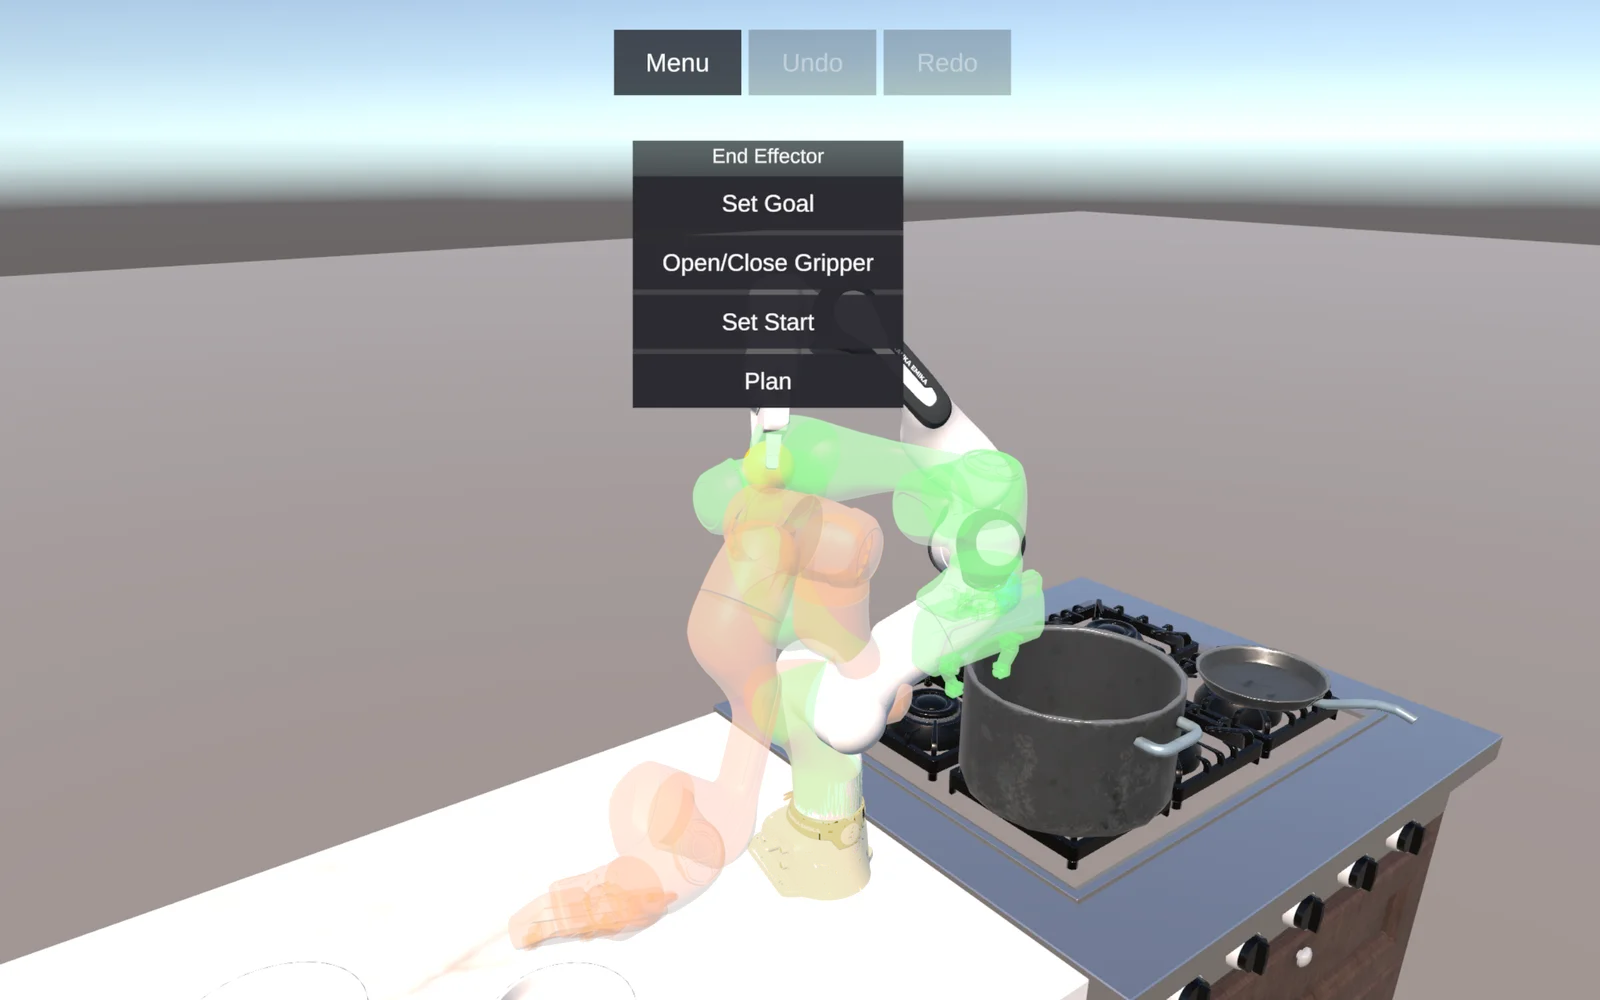
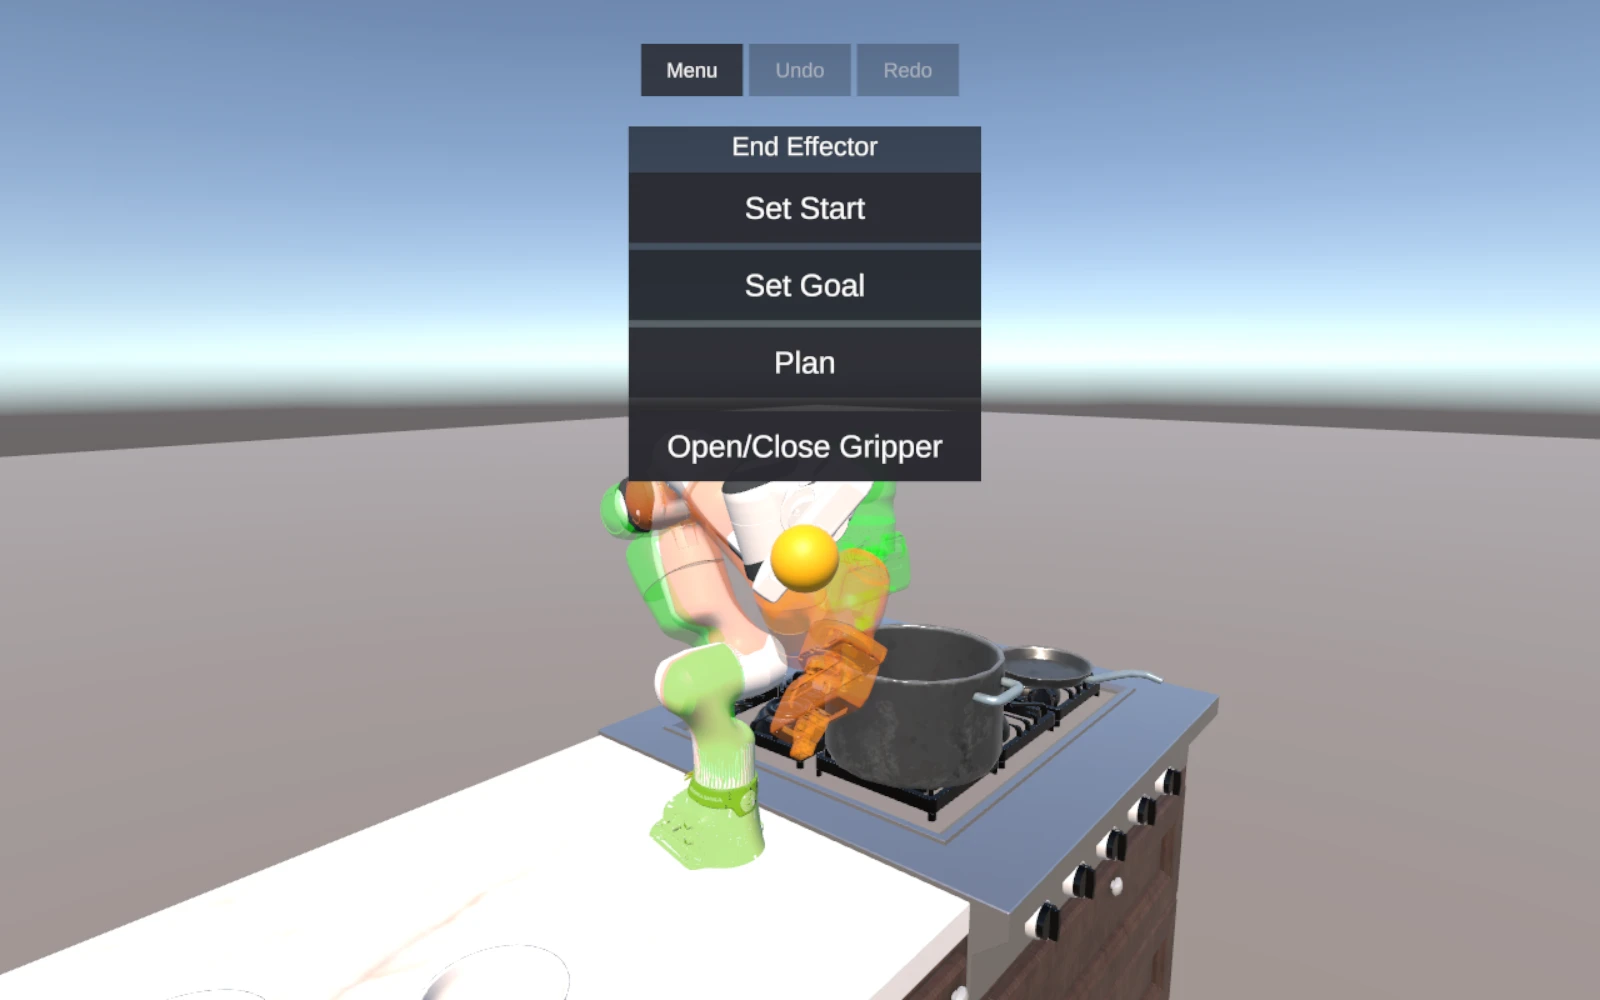
Order the end-effector menu by planning step

diff --git a/Packages/com.erupt.core/Runtime/Ui/ContextualMenuView.cs b/Packages/com.erupt.core/Runtime/Ui/ContextualMenuView.cs
@@ -116,9 +116,6 @@ namespace Erupt.Ui
             Canvas.gameObject.SetActive(visible);
             if (!visible) return;
 
-            int count = Model.Verbs.Count;
-            UiBuilder.ResizeWorldCanvas(Canvas, new Vector2(Width, HeaderHeight + count * (buttonSize.y + Spacing)));
-
             var layout = UiBuilder.CreateColumn("Verbs", Canvas.transform, Spacing);
             column = layout.gameObject;
             UiBuilder.Stretch(layout.GetComponent<RectTransform>());
@@ -129,15 +126,25 @@ namespace Erupt.Ui
             var header = UiBuilder.CreateLabel("Header", column.transform, Model.Target.DisplayName, 24f);
             header.gameObject.AddComponent<LayoutElement>().preferredHeight = HeaderHeight;
 
+            float height = HeaderHeight;
             foreach (var verb in Model.Verbs)
             {
+                if (Model.Kind == SelectionKind.EndEffector && verb.Id == "gripper" && buttons.Count > 0)
+                {
+                    // An empty layout child adds one extra interval before the gripper.
+                    var gap = new GameObject("Gripper gap", typeof(RectTransform));
+                    gap.transform.SetParent(column.transform, false);
+                    height += Spacing;
+                }
                 Verb captured = verb;
                 Button button = UiBuilder.CreateButton(verb.Id, column.transform, verb.Label, buttonSize,
                     () => Invoke(captured));
 
                 UiBuilder.SetInteractable(button, Model.CanInvoke(verb));
                 buttons.Add(button);
+                height += buttonSize.y + Spacing;
             }
+            UiBuilder.ResizeWorldCanvas(Canvas, new Vector2(Width, height));
         }
 
         /// <summary>Use this router for the menu's refusals.</summary>

diff --git a/Assets/Erupt.App/Tests/Desktop/DesktopFlowTests.cs b/Assets/Erupt.App/Tests/Desktop/DesktopFlowTests.cs
@@ -258,8 +258,13 @@ namespace Erupt.App.Desktop.Tests
             yield return Click(OnScreen(HandlePosition, "The end-effector handle"));
             Assert.AreEqual(SelectionKind.EndEffector, selection.CurrentKind, "A left click on the handle selects the end effector.");
             Assert.IsTrue(ui.TierTwo.Canvas.gameObject.activeInHierarchy, "Its tier 2 menu appears.");
-            CollectionAssert.AreEqual(new[] { "set-goal", "gripper", "set-start", "plan" }, ui.TierTwo.Model.Verbs.Select(v => v.Id).ToArray(),
+            CollectionAssert.AreEqual(new[] { "set-start", "set-goal", "plan", "gripper" }, ui.TierTwo.Model.Verbs.Select(v => v.Id).ToArray(),
                 "The menu holds what can be pressed, and nothing else.");
+            float ButtonY(string id) => ui.TierTwo.ButtonFor(id).transform.localPosition.y;
+            float planningStep = ButtonY("set-start") - ButtonY("set-goal");
+            Assert.Greater(planningStep, 0f);
+            Assert.AreEqual(planningStep, ButtonY("set-goal") - ButtonY("plan"), 0.01f);
+            Assert.Greater(ButtonY("plan") - ButtonY("gripper"), planningStep, "A gap separates the gripper from the planning steps.");
 
             // 2. Set Start.
             yield return ClickVerb("set-start");

diff --git a/Packages/com.erupt.core/Runtime/Ui/VerbRegistry.cs b/Packages/com.erupt.core/Runtime/Ui/VerbRegistry.cs
@@ -103,10 +103,26 @@ namespace Erupt.Ui
 
             var verb = new Verb(verbId, label, VerbAvailability.Available, VerbOrigin.Plugin, pluginId);
             if (!rows.TryGetValue(kind, out var list)) rows[kind] = list = new List<Verb>();
-            list.Add(verb);
+            int index = list.Count;
+            if (kind == SelectionKind.EndEffector)
+            {
+                int order = EndEffectorOrder(verbId);
+                index = list.FindIndex(existing => EndEffectorOrder(existing.Id) > order);
+                if (index < 0) index = list.Count;
+            }
+            list.Insert(index, verb);
             Changed?.Invoke();
             return verb;
         }
+
+        // Planning steps lead the row, whichever plugin registers first. Other verbs keep their order.
+        private static int EndEffectorOrder(string id) => id switch
+        {
+            "set-start" => 0,
+            "set-goal" => 1,
+            "plan" => 2,
+            _ => 3
+        };
 
         /// <summary>Remove every verb a plugin contributed (on unregister).</summary>
         public int RemoveAllFrom(string pluginId)

diff --git a/Packages/com.erupt.plugin.moveit/Tests/MoveItFirstRunTests.cs b/Packages/com.erupt.plugin.moveit/Tests/MoveItFirstRunTests.cs
@@ -547,12 +547,12 @@ namespace Erupt.Plugins.MoveIt.Tests
         }
 
         [UnityTest]
-        public IEnumerator TheEndEffectorMenu_ReadsSetGoalGripperSetStartPlan()
+        public IEnumerator TheEndEffectorMenu_ListsPlanningStepsBeforeGripperActions()
         {
             yield return Build();
-            CollectionAssert.AreEqual(new[] { "set-goal", "gripper", "preview-grasp", "set-start", "plan" },
+            CollectionAssert.AreEqual(new[] { "set-start", "set-goal", "plan", "gripper", "preview-grasp" },
                 ui.Verbs.For(SelectionKind.EndEffector).Select(v => v.Id).ToArray(),
-                "Plan is the last button (Preview Grasp is pending and left out of the menu).");
+                "The planning steps precede the gripper actions.");
         }
     }
 }

diff --git a/Packages/com.erupt.plugin.moveit/Runtime/MoveItPlugin.cs b/Packages/com.erupt.plugin.moveit/Runtime/MoveItPlugin.cs
@@ -151,9 +151,7 @@ namespace Erupt.Plugins.MoveIt
                 }
             }
 
-            // The user poses the robot, sets the start, poses it again, sets the goal. set-goal
-            // alone cannot express that, so start gets its own verb (plugin origin). It is
-            // added before the base class adds "plan", so Plan is the last button of the menu.
+            // MoveIt captures a start pose as well as the planning family's goal pose.
             if (context.Ui != null && !context.Ui.Verbs.Contains(SelectionKind.EndEffector, "set-start"))
                 context.Ui.RegisterVerb(SelectionKind.EndEffector, "set-start", "Set Start", target => SetStartFromRobot(RobotOf(target)), Id);
 

diff --git a/Assets/Erupt.App/Tests/Modules/ModulePresenceTests.cs b/Assets/Erupt.App/Tests/Modules/ModulePresenceTests.cs
@@ -37,7 +37,7 @@ namespace Erupt.App.Modules.Tests
 
         // What each module puts on the menus and on the strip.
         private static readonly string[] CoreEndEffector = { "Open/Close Gripper" };
-        private static readonly string[] PlanningEndEffector = { "Set Goal", "Open/Close Gripper", "Set Start", "Plan" };
+        private static readonly string[] PlanningEndEffector = { "Set Start", "Set Goal", "Plan", "Open/Close Gripper" };
         private static readonly string[] PlanningPlan = { "Execute", "Preview" };
 
         private FakeRosBus bus;

diff --git a/website/guides/quick-start.md b/website/guides/quick-start.md
@@ -59,7 +59,7 @@ beyond the one Unity itself asks for.
     <input id="motion-plan" aria-controls="plan-frame" type="radio" name="motion-step">
     <label for="motion-plan">Preview the plan</label>
     <figure id="select-frame">
-      <a href="../images/kitchen-fr3-selection.webp"><img width="1600" height="1000" src="../images/kitchen-fr3-selection.webp" alt="The selected yellow handle and, above it, the End Effector menu with Set Goal, Open/Close Gripper, Set Start and Plan." loading="lazy"></a>
+      <a href="../images/kitchen-fr3-selection.webp"><img width="1600" height="1000" src="../images/kitchen-fr3-selection.webp" alt="The selected yellow handle and, above it, the End Effector menu with Set Start, Set Goal and Plan above Open/Close Gripper." loading="lazy"></a>
       <figcaption>Left-click the blue sphere at the end effector. When the handle turns yellow, click <strong>Set Start</strong> in the menu to save the arm’s current pose.</figcaption>
     </figure>
     <figure id="goal-frame">

diff --git a/Packages/com.erupt.plugin.moveit/README.md b/Packages/com.erupt.plugin.moveit/README.md
@@ -37,7 +37,8 @@ Contract and lifecycle: `com.erupt.core/Documentation~/plugin-authoring.md`. Gen
    With one robot in the root namespace this is the single `/collision_object` /
    `/collision_objects_ros` pair it always was.
 4. **Use.** Select the end effector (its handle) → `Set Start` (tier 2) → drag the end
-   effector to where the motion should end → `Set Goal` → `Plan`. The plan appears as a
+   effector to where the motion should end → `Set Goal` → `Plan`. These three buttons are
+   grouped at the top of the menu, above `Open/Close Gripper`. The plan appears as a
    handle halfway between start and goal, becomes the selection (`selectNewPlan`) and previews, in a loop, on a blue
    copy of the robot while the robot stays where it is; its menu has `Execute` and
    `Stop Preview` (`Preview` once the preview has been stopped). Executing publishes the trajectory and the Unity robot

diff --git a/website/guides/using-the-app.md b/website/guides/using-the-app.md
@@ -14,7 +14,7 @@ Controls live in three places, called tiers. Nothing else in the app is a menu.
 - **Tier 2, the menu on the selected thing.** Select something and its actions appear above
   it:
   - an obstacle: **Resize**, **Delete**, **Snap to Surface**, **Duplicate**
-  - the end effector: **Set Goal**, **Open/Close Gripper**, **Set Start**, **Plan**
+  - the end effector: **Set Start**, **Set Goal**, **Plan**, then **Open/Close Gripper**
   - a plan: **Execute**, **Preview** (or **Stop Preview** while it plays)
 - **Tier 3, the panel.** Open it with **Menu** on the wrist bar, with the controller's Menu
   button, or with the hand menu gesture. It shows one tab at a time:

diff --git a/Packages/com.erupt.plugin.moveit/CHANGELOG.md b/Packages/com.erupt.plugin.moveit/CHANGELOG.md
@@ -48,8 +48,8 @@ All notable changes to `com.erupt.plugin.moveit` are documented here. The format
 
 ### Changed
 
-- The end-effector menu reads Set Goal, Open/Close Gripper, Set Start, Plan (Set Start is
-  registered before the base class adds Plan).
+- The end-effector menu lists Set Start, Set Goal and Plan in workflow order, with a small
+  gap before Open/Close Gripper.
 
 ### Fixed (buttons that did nothing)
 

diff --git a/website/guides/coming-soon.md b/website/guides/coming-soon.md
@@ -33,8 +33,8 @@ Today an obstacle's menu has **Resize**, **Delete**, **Snap to Surface** and **D
 | --- | --- |
 | **Preview Grasp** | See a grasp on the gripper before the robot uses it. |
 
-Today the end effector's menu has **Set Goal**, **Open/Close Gripper**, **Set Start** and
-**Plan**.
+Today the end effector's menu has **Set Start**, **Set Goal**, **Plan** and
+**Open/Close Gripper**.
 
 ## On a plan
 
